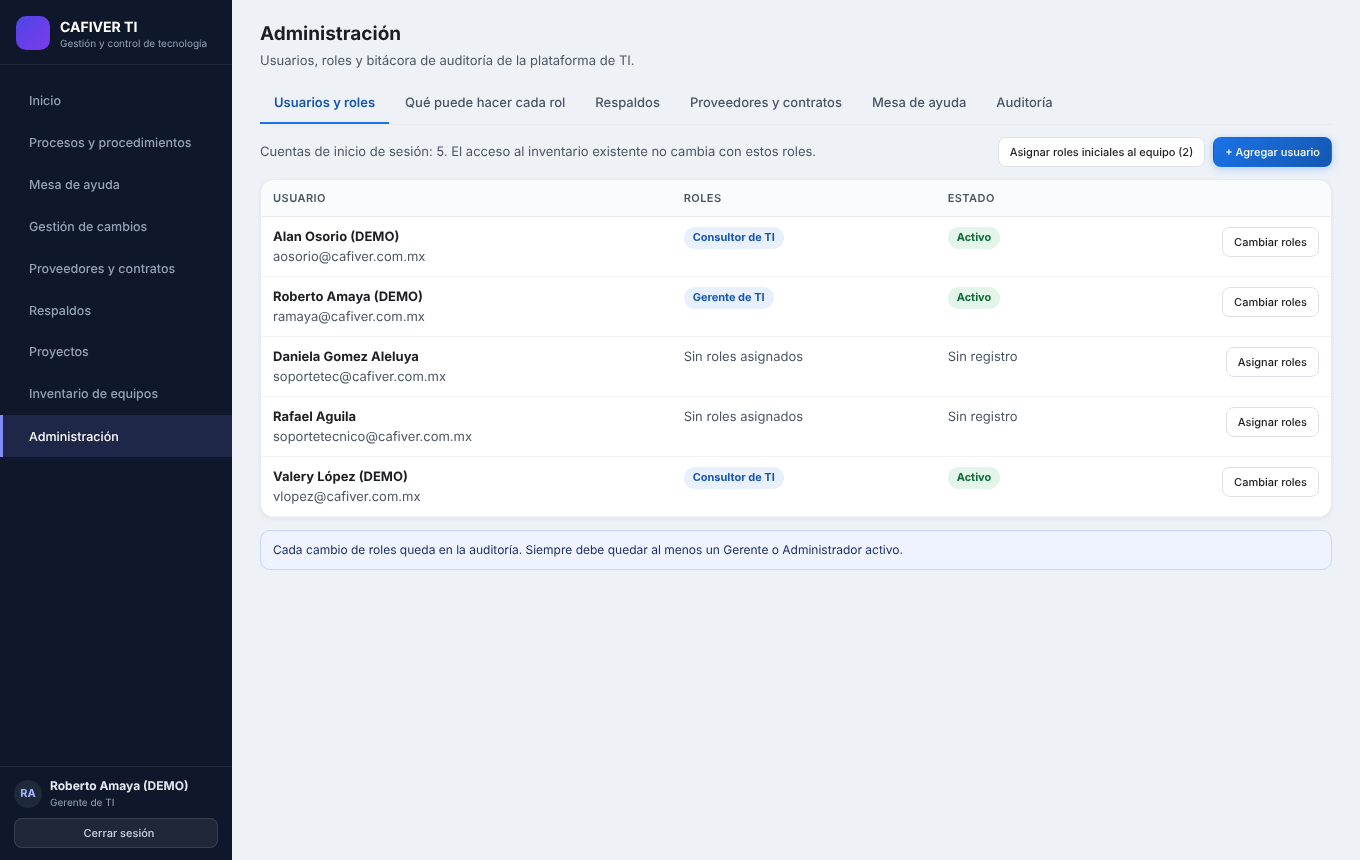
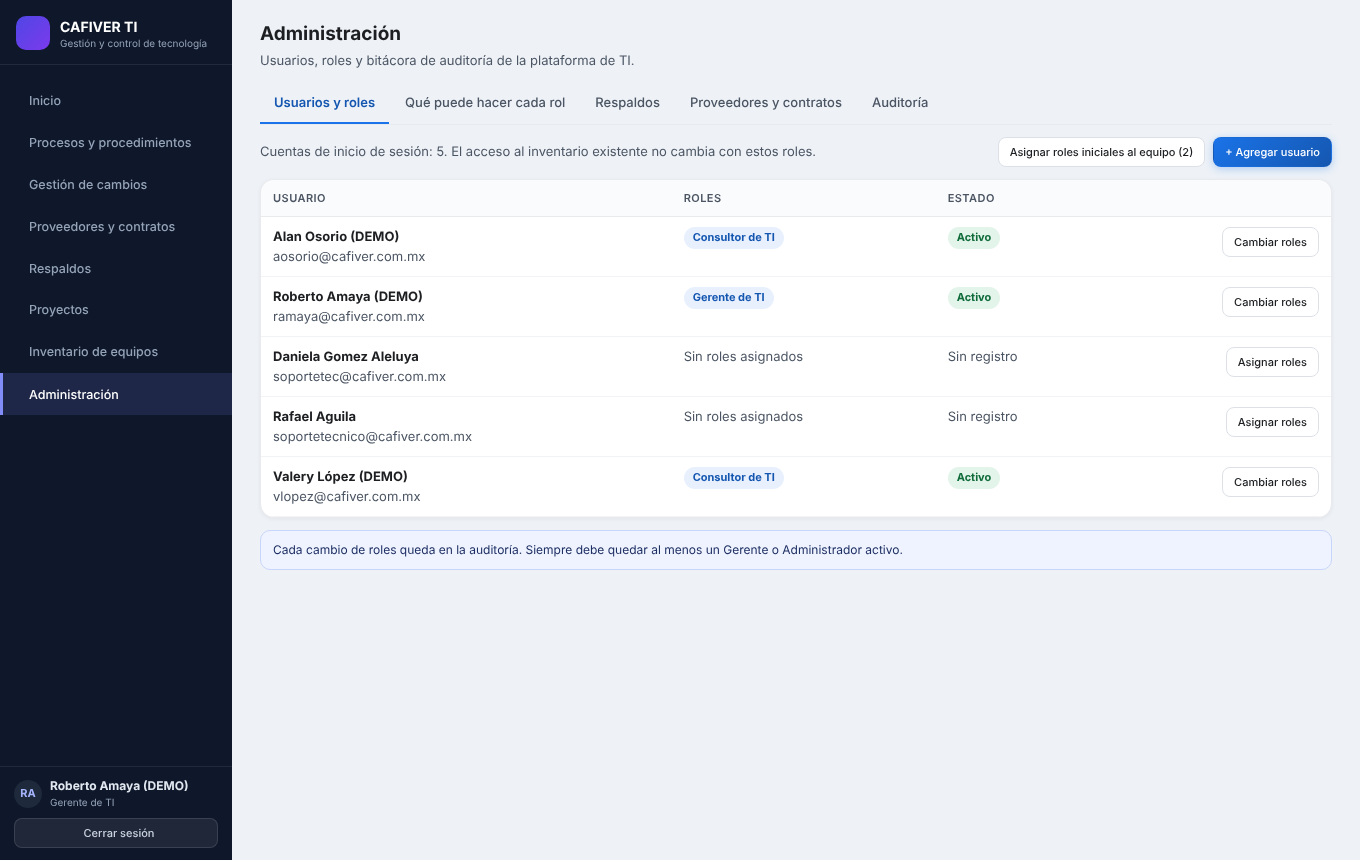
Recorrido sin la Mesa de ayuda (oculta); también se oculta su pestaña en Administración
Claude-Session: https://claude.ai/code/session_01NsRBkt7dMQX5HxVaatskRw

diff --git a/demo/recorrido/index.html b/demo/recorrido/index.html
@@ -1,1 +1,1 @@
-<!doctype html><html lang="es"><head><meta charset="utf-8"><meta name="viewport" content="width=device-width,initial-scale=1"><title>Recorrido CAFIVER TI</title><style>:root{--bg:#f6f7f9;--ink:#111827;--mut:#4b5563;--azul:#1a73e8;--bor:#e5e7eb}@media(prefers-color-scheme:dark){:root{--bg:#0f1115;--ink:#f3f4f6;--mut:#aab2bf;--azul:#7db3ff;--bor:#2a2f3a}}body{margin:0;background:var(--bg);color:var(--ink);font:15px/1.55 system-ui,Segoe UI,sans-serif}header,main{max-width:1180px;margin:0 auto;padding:20px 24px}h1{margin:0 0 6px;font-size:26px}h2{margin:36px 0 14px;font-size:20px;border-bottom:1px solid var(--bor);padding-bottom:8px}h3{margin:4px 0 6px;font-size:17px}p{margin:0 0 8px}.mut,.ruta{color:var(--mut)}.aviso{background:#fff7e0;color:#5c4400;border:1px solid #f0d98a;border-radius:10px;padding:12px 14px;margin-top:14px}figure{margin:0 0 28px;display:grid;grid-template-columns:300px 1fr;gap:20px;align-items:start;background:color-mix(in srgb,var(--bg) 70%,#fff);border:1px solid var(--bor);border-radius:14px;padding:16px}figure img{width:100%;border:1px solid var(--bor);border-radius:8px;display:block}.mod{font-size:12px;font-weight:700;text-transform:uppercase;letter-spacing:.05em;color:var(--azul)}a{color:var(--azul)}@media(max-width:800px){figure{grid-template-columns:1fr}}</style></head><body><header><h1>Recorrido de CAFIVER TI</h1><p class="mut">Capturas de cada módulo, como las vería cada rol.</p><div class="aviso"><b>Datos de ejemplo.</b> Todo lo que aparece está marcado DEMO y viene de un Firebase simulado en memoria; no se tocó tu Firebase real. Haz clic en una imagen para verla completa. Menú del Consultor: Inicio · Procesos y procedimientos · Mesa de ayuda · Gestión de cambios · Proveedores y contratos · Respaldos · Proyectos(se abre en otra pestaña) · Inventario de equipos(se abre en otra pestaña).</div></header><main><section><h2>Como Gerente de TI (ves todo)</h2><figure><figcaption><span class="mod">Inicio</span><h3>Tu resumen de todo</h3><p>Atención pendiente, y una sección por módulo con cifras reales. Cada tarjeta es clicable y abre el módulo ya filtrado. Lo que no se puede calcular dice &quot;No disponible&quot;.</p><p class="ruta">Cómo llegar: <b>Menú › Inicio</b></p></figcaption><a href="img/g01-inicio.png"><img src="img/g01-inicio.png" alt="Tu resumen de todo" loading="lazy"></a></figure><figure><figcaption><span class="mod">Procesos y procedimientos</span><h3>Lista con indicadores</h3><p>Procesos con estado, versión y próxima revisión. Las tarjetas filtran la tabla. Solo tú aprobás y publicás.</p><p class="ruta">Cómo llegar: <b>Menú › Procesos y procedimientos</b></p></figcaption><a href="img/g02-procesos.png"><img src="img/g02-procesos.png" alt="Lista con indicadores" loading="lazy"></a></figure><figure><figcaption><span class="mod">Procesos y procedimientos</span><h3>Detalle y aprobación</h3><p>Ficha, actividades, versiones e historial. Los botones de abajo son las acciones permitidas para tu rol en ese estado.</p><p class="ruta">Cómo llegar: <b>Procesos › clic en un proceso</b></p></figcaption><a href="img/g03-proceso-detalle.png"><img src="img/g03-proceso-detalle.png" alt="Detalle y aprobación" loading="lazy"></a></figure><figure><figcaption><span class="mod">Mesa de ayuda</span><h3>Todos los tickets</h3><p>Prioridad, estado, responsable y semáforo de SLA con texto. Tarjetas de gestión y exportar CSV.</p><p class="ruta">Cómo llegar: <b>Menú › Mesa de ayuda</b></p></figcaption><a href="img/g04-tickets.png"><img src="img/g04-tickets.png" alt="Todos los tickets" loading="lazy"></a></figure><figure><figcaption><span class="mod">Mesa de ayuda</span><h3>Detalle con SLA vencido</h3><p>Resumen, conversación (con notas internas) e historial. Asignar, cambiar prioridad o cancelar.</p><p class="ruta">Cómo llegar: <b>Mesa de ayuda › clic en un ticket</b></p></figcaption><a href="img/g05-ticket-detalle.png"><img src="img/g05-ticket-detalle.png" alt="Detalle con SLA vencido" loading="lazy"></a></figure><figure><figcaption><span class="mod">Gestión de cambios</span><h3>Cambios y riesgo</h3><p>Cambios con riesgo, tipo, estado y ventana. Aprobar es solo tuyo (y del Director).</p><p class="ruta">Cómo llegar: <b>Menú › Gestión de cambios</b></p></figcaption><a href="img/g06-cambios.png"><img src="img/g06-cambios.png" alt="Cambios y riesgo" loading="lazy"></a></figure><figure><figcaption><span class="mod">Gestión de cambios</span><h3>Detalle y choque de ventanas</h3><p>Avisa si la ventana se traslapa con otro cambio sobre el mismo sistema o equipo.</p><p class="ruta">Cómo llegar: <b>Gestión de cambios › clic en un cambio</b></p></figcaption><a href="img/g07-cambio-detalle.png"><img src="img/g07-cambio-detalle.png" alt="Detalle y choque de ventanas" loading="lazy"></a></figure><figure><figcaption><span class="mod">Proveedores y contratos</span><h3>Contratos y vigencia</h3><p>Por vencer y vencidos se calculan con la fecha de hoy. El monto anual se suma por moneda, sin convertir.</p><p class="ruta">Cómo llegar: <b>Menú › Proveedores y contratos</b></p></figcaption><a href="img/g08-contratos.png"><img src="img/g08-contratos.png" alt="Contratos y vigencia" loading="lazy"></a></figure><figure><figcaption><span class="mod">Proveedores y contratos</span><h3>Proveedores</h3><p>Contactos, categoría, responsable y sus contratos.</p><p class="ruta">Cómo llegar: <b>Proveedores y contratos › pestaña Proveedores</b></p></figcaption><a href="img/g09-proveedores.png"><img src="img/g09-proveedores.png" alt="Proveedores" loading="lazy"></a></figure><figure><figcaption><span class="mod">Respaldos</span><h3>Control de respaldos</h3><p>Un trabajo sin registros aparece &quot;Sin registros&quot;, nunca &quot;Al día&quot;. La plataforma no hace respaldos: registra los que hacen tus consultores.</p><p class="ruta">Cómo llegar: <b>Menú › Respaldos</b></p></figcaption><a href="img/g10-respaldos.png"><img src="img/g10-respaldos.png" alt="Control de respaldos" loading="lazy"></a></figure><figure><figcaption><span class="mod">Respaldos</span><h3>Detalle y registro</h3><p>Última ejecución, última prueba de restauración y botones para registrar nuevas.</p><p class="ruta">Cómo llegar: <b>Respaldos › clic en un trabajo</b></p></figcaption><a href="img/g11-respaldo-detalle.png"><img src="img/g11-respaldo-detalle.png" alt="Detalle y registro" loading="lazy"></a></figure><figure><figcaption><span class="mod">Administración</span><h3>Usuarios y roles</h3><p>Asigna Gerente, Consultor u otros roles. Siempre debe quedar al menos un Gerente o Administrador.</p><p class="ruta">Cómo llegar: <b>Menú › Administración › Usuarios y roles</b></p></figcaption><a href="img/g12-usuarios.png"><img src="img/g12-usuarios.png" alt="Usuarios y roles" loading="lazy"></a></figure><figure><figcaption><span class="mod">Administración</span><h3>Configuración de la mesa de ayuda</h3><p>Categorías, SLA por categoría y prioridad, horario de servicio. Nada viene predefinido: lo defines tú.</p><p class="ruta">Cómo llegar: <b>Administración › Mesa de ayuda</b></p></figcaption><a href="img/g13-config-tickets.png"><img src="img/g13-config-tickets.png" alt="Configuración de la mesa de ayuda" loading="lazy"></a></figure><figure><figcaption><span class="mod">Administración</span><h3>Auditoría</h3><p>Quién hizo qué y cuándo. Solo lectura: nadie puede editarla ni borrarla.</p><p class="ruta">Cómo llegar: <b>Administración › Auditoría</b></p></figcaption><a href="img/g14-auditoria.png"><img src="img/g14-auditoria.png" alt="Auditoría" loading="lazy"></a></figure></section><section><h2>Como Consultor de TI (ves lo tuyo)</h2><figure><figcaption><span class="mod">Inicio</span><h3>El resumen del consultor</h3><p>Solo lo suyo: su atención de procesos y accesos. Sin inventario, auditoría ni indicadores globales.</p><p class="ruta">Cómo llegar: <b>Menú › Inicio</b></p></figcaption><a href="img/c01-inicio.png"><img src="img/c01-inicio.png" alt="El resumen del consultor" loading="lazy"></a></figure><figure><figcaption><span class="mod">Mesa de ayuda</span><h3>Tus tickets</h3><p>Los que tiene asignados, los que creó y los nuevos sin responsable, que puede tomar.</p><p class="ruta">Cómo llegar: <b>Menú › Mesa de ayuda</b></p></figcaption><a href="img/c02-tickets.png"><img src="img/c02-tickets.png" alt="Tus tickets" loading="lazy"></a></figure><figure><figcaption><span class="mod">Gestión de cambios</span><h3>Tus cambios</h3><p>Los que solicitó o debe implementar. No puede aprobar.</p><p class="ruta">Cómo llegar: <b>Menú › Gestión de cambios</b></p></figcaption><a href="img/c03-cambios.png"><img src="img/c03-cambios.png" alt="Tus cambios" loading="lazy"></a></figure><figure><figcaption><span class="mod">Respaldos</span><h3>Tus trabajos de respaldo</h3><p>Registra ejecuciones y pruebas de restauración de los trabajos que tiene asignados.</p><p class="ruta">Cómo llegar: <b>Menú › Respaldos</b></p></figcaption><a href="img/c04-respaldos.png"><img src="img/c04-respaldos.png" alt="Tus trabajos de respaldo" loading="lazy"></a></figure></section><p class="mut">Generado con <code>node tests/recorrido.js</code>.</p></main></body></html>
+<!doctype html><html lang="es"><head><meta charset="utf-8"><meta name="viewport" content="width=device-width,initial-scale=1"><title>Recorrido CAFIVER TI</title><style>:root{--bg:#f6f7f9;--ink:#111827;--mut:#4b5563;--azul:#1a73e8;--bor:#e5e7eb}@media(prefers-color-scheme:dark){:root{--bg:#0f1115;--ink:#f3f4f6;--mut:#aab2bf;--azul:#7db3ff;--bor:#2a2f3a}}body{margin:0;background:var(--bg);color:var(--ink);font:15px/1.55 system-ui,Segoe UI,sans-serif}header,main{max-width:1180px;margin:0 auto;padding:20px 24px}h1{margin:0 0 6px;font-size:26px}h2{margin:36px 0 14px;font-size:20px;border-bottom:1px solid var(--bor);padding-bottom:8px}h3{margin:4px 0 6px;font-size:17px}p{margin:0 0 8px}.mut,.ruta{color:var(--mut)}.aviso{background:#fff7e0;color:#5c4400;border:1px solid #f0d98a;border-radius:10px;padding:12px 14px;margin-top:14px}figure{margin:0 0 28px;display:grid;grid-template-columns:300px 1fr;gap:20px;align-items:start;background:color-mix(in srgb,var(--bg) 70%,#fff);border:1px solid var(--bor);border-radius:14px;padding:16px}figure img{width:100%;border:1px solid var(--bor);border-radius:8px;display:block}.mod{font-size:12px;font-weight:700;text-transform:uppercase;letter-spacing:.05em;color:var(--azul)}a{color:var(--azul)}@media(max-width:800px){figure{grid-template-columns:1fr}}</style></head><body><header><h1>Recorrido de CAFIVER TI</h1><p class="mut">Capturas de cada módulo, como las vería cada rol.</p><div class="aviso"><b>Datos de ejemplo.</b> Todo lo que aparece está marcado DEMO y viene de un Firebase simulado en memoria; no se tocó tu Firebase real. Haz clic en una imagen para verla completa. Menú del Consultor: Inicio · Procesos y procedimientos · Gestión de cambios · Proveedores y contratos · Respaldos · Proyectos(se abre en otra pestaña) · Inventario de equipos(se abre en otra pestaña).</div></header><main><section><h2>Como Gerente de TI (ves todo)</h2><figure><figcaption><span class="mod">Inicio</span><h3>Tu resumen de todo</h3><p>Atención pendiente, y una sección por módulo con cifras reales. Cada tarjeta es clicable y abre el módulo ya filtrado. Lo que no se puede calcular dice &quot;No disponible&quot;.</p><p class="ruta">Cómo llegar: <b>Menú › Inicio</b></p></figcaption><a href="img/g01-inicio.png"><img src="img/g01-inicio.png" alt="Tu resumen de todo" loading="lazy"></a></figure><figure><figcaption><span class="mod">Procesos y procedimientos</span><h3>Lista con indicadores</h3><p>Procesos con estado, versión y próxima revisión. Las tarjetas filtran la tabla. Solo tú aprobás y publicás.</p><p class="ruta">Cómo llegar: <b>Menú › Procesos y procedimientos</b></p></figcaption><a href="img/g02-procesos.png"><img src="img/g02-procesos.png" alt="Lista con indicadores" loading="lazy"></a></figure><figure><figcaption><span class="mod">Procesos y procedimientos</span><h3>Detalle y aprobación</h3><p>Ficha, actividades, versiones e historial. Los botones de abajo son las acciones permitidas para tu rol en ese estado.</p><p class="ruta">Cómo llegar: <b>Procesos › clic en un proceso</b></p></figcaption><a href="img/g03-proceso-detalle.png"><img src="img/g03-proceso-detalle.png" alt="Detalle y aprobación" loading="lazy"></a></figure><figure><figcaption><span class="mod">Gestión de cambios</span><h3>Cambios y riesgo</h3><p>Cambios con riesgo, tipo, estado y ventana. Aprobar es solo tuyo (y del Director).</p><p class="ruta">Cómo llegar: <b>Menú › Gestión de cambios</b></p></figcaption><a href="img/g06-cambios.png"><img src="img/g06-cambios.png" alt="Cambios y riesgo" loading="lazy"></a></figure><figure><figcaption><span class="mod">Gestión de cambios</span><h3>Detalle y choque de ventanas</h3><p>Avisa si la ventana se traslapa con otro cambio sobre el mismo sistema o equipo.</p><p class="ruta">Cómo llegar: <b>Gestión de cambios › clic en un cambio</b></p></figcaption><a href="img/g07-cambio-detalle.png"><img src="img/g07-cambio-detalle.png" alt="Detalle y choque de ventanas" loading="lazy"></a></figure><figure><figcaption><span class="mod">Proveedores y contratos</span><h3>Contratos y vigencia</h3><p>Por vencer y vencidos se calculan con la fecha de hoy. El monto anual se suma por moneda, sin convertir.</p><p class="ruta">Cómo llegar: <b>Menú › Proveedores y contratos</b></p></figcaption><a href="img/g08-contratos.png"><img src="img/g08-contratos.png" alt="Contratos y vigencia" loading="lazy"></a></figure><figure><figcaption><span class="mod">Proveedores y contratos</span><h3>Proveedores</h3><p>Contactos, categoría, responsable y sus contratos.</p><p class="ruta">Cómo llegar: <b>Proveedores y contratos › pestaña Proveedores</b></p></figcaption><a href="img/g09-proveedores.png"><img src="img/g09-proveedores.png" alt="Proveedores" loading="lazy"></a></figure><figure><figcaption><span class="mod">Respaldos</span><h3>Control de respaldos</h3><p>Un trabajo sin registros aparece &quot;Sin registros&quot;, nunca &quot;Al día&quot;. La plataforma no hace respaldos: registra los que hacen tus consultores.</p><p class="ruta">Cómo llegar: <b>Menú › Respaldos</b></p></figcaption><a href="img/g10-respaldos.png"><img src="img/g10-respaldos.png" alt="Control de respaldos" loading="lazy"></a></figure><figure><figcaption><span class="mod">Respaldos</span><h3>Detalle y registro</h3><p>Última ejecución, última prueba de restauración y botones para registrar nuevas.</p><p class="ruta">Cómo llegar: <b>Respaldos › clic en un trabajo</b></p></figcaption><a href="img/g11-respaldo-detalle.png"><img src="img/g11-respaldo-detalle.png" alt="Detalle y registro" loading="lazy"></a></figure><figure><figcaption><span class="mod">Administración</span><h3>Usuarios y roles</h3><p>Asigna Gerente, Consultor u otros roles. Siempre debe quedar al menos un Gerente o Administrador.</p><p class="ruta">Cómo llegar: <b>Menú › Administración › Usuarios y roles</b></p></figcaption><a href="img/g12-usuarios.png"><img src="img/g12-usuarios.png" alt="Usuarios y roles" loading="lazy"></a></figure><figure><figcaption><span class="mod">Administración</span><h3>Auditoría</h3><p>Quién hizo qué y cuándo. Solo lectura: nadie puede editarla ni borrarla.</p><p class="ruta">Cómo llegar: <b>Administración › Auditoría</b></p></figcaption><a href="img/g14-auditoria.png"><img src="img/g14-auditoria.png" alt="Auditoría" loading="lazy"></a></figure></section><section><h2>Como Consultor de TI (ves lo tuyo)</h2><figure><figcaption><span class="mod">Inicio</span><h3>El resumen del consultor</h3><p>Solo lo suyo: su atención de procesos y accesos. Sin inventario, auditoría ni indicadores globales.</p><p class="ruta">Cómo llegar: <b>Menú › Inicio</b></p></figcaption><a href="img/c01-inicio.png"><img src="img/c01-inicio.png" alt="El resumen del consultor" loading="lazy"></a></figure><figure><figcaption><span class="mod">Gestión de cambios</span><h3>Tus cambios</h3><p>Los que solicitó o debe implementar. No puede aprobar.</p><p class="ruta">Cómo llegar: <b>Menú › Gestión de cambios</b></p></figcaption><a href="img/c03-cambios.png"><img src="img/c03-cambios.png" alt="Tus cambios" loading="lazy"></a></figure><figure><figcaption><span class="mod">Respaldos</span><h3>Tus trabajos de respaldo</h3><p>Registra ejecuciones y pruebas de restauración de los trabajos que tiene asignados.</p><p class="ruta">Cómo llegar: <b>Menú › Respaldos</b></p></figcaption><a href="img/c04-respaldos.png"><img src="img/c04-respaldos.png" alt="Tus trabajos de respaldo" loading="lazy"></a></figure></section><p class="mut">Generado con <code>node tests/recorrido.js</code>.</p></main></body></html>

diff --git a/tests/recorrido.js b/tests/recorrido.js
@@ -97,10 +97,6 @@ function paso(archivo, rol, modulo, titulo, texto, ruta) { PASOS.push({ archivo,
   paso('g02-procesos', 'Gerente', 'Procesos y procedimientos', 'Lista con indicadores', 'Procesos con estado, versión y próxima revisión. Las tarjetas filtran la tabla. Solo tú aprobás y publicás.', 'Menú › Procesos y procedimientos');
   await G.modal('.ti-row:has-text("PRO-002")', 'g03-proceso-detalle');
   paso('g03-proceso-detalle', 'Gerente', 'Procesos y procedimientos', 'Detalle y aprobación', 'Ficha, actividades, versiones e historial. Los botones de abajo son las acciones permitidas para tu rol en ese estado.', 'Procesos › clic en un proceso');
-  await G.ir('ti-tickets'); await G.foto('g04-tickets');
-  paso('g04-tickets', 'Gerente', 'Mesa de ayuda', 'Todos los tickets', 'Prioridad, estado, responsable y semáforo de SLA con texto. Tarjetas de gestión y exportar CSV.', 'Menú › Mesa de ayuda');
-  await G.modal('.ti-row:has-text("TCK-0001")', 'g05-ticket-detalle');
-  paso('g05-ticket-detalle', 'Gerente', 'Mesa de ayuda', 'Detalle con SLA vencido', 'Resumen, conversación (con notas internas) e historial. Asignar, cambiar prioridad o cancelar.', 'Mesa de ayuda › clic en un ticket');
   await G.ir('ti-cambios'); await G.foto('g06-cambios');
   paso('g06-cambios', 'Gerente', 'Gestión de cambios', 'Cambios y riesgo', 'Cambios con riesgo, tipo, estado y ventana. Aprobar es solo tuyo (y del Director).', 'Menú › Gestión de cambios');
   await G.modal('.ti-row:has-text("CHG-0001")', 'g07-cambio-detalle');
@@ -115,8 +111,6 @@ function paso(archivo, rol, modulo, titulo, texto, ruta) { PASOS.push({ archivo,
   paso('g11-respaldo-detalle', 'Gerente', 'Respaldos', 'Detalle y registro', 'Última ejecución, última prueba de restauración y botones para registrar nuevas.', 'Respaldos › clic en un trabajo');
   await G.ir('ti-admin'); await G.foto('g12-usuarios');
   paso('g12-usuarios', 'Gerente', 'Administración', 'Usuarios y roles', 'Asigna Gerente, Consultor u otros roles. Siempre debe quedar al menos un Gerente o Administrador.', 'Menú › Administración › Usuarios y roles');
-  await G.page.click('[data-t=tickets]'); await G.page.waitForTimeout(400); await G.foto('g13-config-tickets', true);
-  paso('g13-config-tickets', 'Gerente', 'Administración', 'Configuración de la mesa de ayuda', 'Categorías, SLA por categoría y prioridad, horario de servicio. Nada viene predefinido: lo defines tú.', 'Administración › Mesa de ayuda');
   await G.page.click('[data-t=auditoria]'); await G.page.waitForTimeout(500); await G.foto('g14-auditoria');
   paso('g14-auditoria', 'Gerente', 'Administración', 'Auditoría', 'Quién hizo qué y cuándo. Solo lectura: nadie puede editarla ni borrarla.', 'Administración › Auditoría');
   await G.page.close();
@@ -125,8 +119,6 @@ function paso(archivo, rol, modulo, titulo, texto, ruta) { PASOS.push({ archivo,
   const C = await sesion(CONS, 'Consultor');
   await C.ir('ti-inicio'); await C.page.waitForTimeout(400); await C.foto('c01-inicio', true);
   paso('c01-inicio', 'Consultor', 'Inicio', 'El resumen del consultor', 'Solo lo suyo: su atención de procesos y accesos. Sin inventario, auditoría ni indicadores globales.', 'Menú › Inicio');
-  await C.ir('ti-tickets'); await C.foto('c02-tickets');
-  paso('c02-tickets', 'Consultor', 'Mesa de ayuda', 'Tus tickets', 'Los que tiene asignados, los que creó y los nuevos sin responsable, que puede tomar.', 'Menú › Mesa de ayuda');
   await C.ir('ti-cambios'); await C.foto('c03-cambios');
   paso('c03-cambios', 'Consultor', 'Gestión de cambios', 'Tus cambios', 'Los que solicitó o debe implementar. No puede aprobar.', 'Menú › Gestión de cambios');
   await C.ir('ti-respaldos'); await C.foto('c04-respaldos');

diff --git a/ti/js/ti-admin.js b/ti/js/ti-admin.js
@@ -29,7 +29,7 @@
       el.innerHTML = h + '<div class="ti-note warn"><b>Configuración inicial.</b> Aún no hay roles en la plataforma. Tu correo (<b>' + esc(TI.user.email) + '</b>) está autorizado para crear su propio registro como <b>Gerente de TI</b>. Después podrás asignar roles a tu equipo.<div style="margin-top:10px"><button class="btn btn-blue" id="ad-boot">Crear mi registro de administrador</button></div></div>';
       el.querySelector('#ad-boot').onclick = inicializar; return;
     }
-    h += '<div class="ti-tabs" role="tablist">' + (admin ? '<button role="tab" data-t="usuarios" aria-selected="' + (A.tab === 'usuarios') + '">Usuarios y roles</button><button role="tab" data-t="roles" aria-selected="' + (A.tab === 'roles') + '">Qué puede hacer cada rol</button>' : '') + (admin && TI.puede('respaldos.gestionar') ? '<button role="tab" data-t="respaldos" aria-selected="' + (A.tab === 'respaldos') + '">Respaldos</button>' : '') + (admin && TI.puede('contratos.gestionar') ? '<button role="tab" data-t="proveedores" aria-selected="' + (A.tab === 'proveedores') + '">Proveedores y contratos</button>' : '') + (admin && TI.puede('tickets.configurar') ? '<button role="tab" data-t="tickets" aria-selected="' + (A.tab === 'tickets') + '">Mesa de ayuda</button>' : '') + (audi ? '<button role="tab" data-t="auditoria" aria-selected="' + (A.tab === 'auditoria') + '">Auditoría</button>' : '') + '</div>';
+    h += '<div class="ti-tabs" role="tablist">' + (admin ? '<button role="tab" data-t="usuarios" aria-selected="' + (A.tab === 'usuarios') + '">Usuarios y roles</button><button role="tab" data-t="roles" aria-selected="' + (A.tab === 'roles') + '">Qué puede hacer cada rol</button>' : '') + (admin && TI.puede('respaldos.gestionar') ? '<button role="tab" data-t="respaldos" aria-selected="' + (A.tab === 'respaldos') + '">Respaldos</button>' : '') + (admin && TI.puede('contratos.gestionar') ? '<button role="tab" data-t="proveedores" aria-selected="' + (A.tab === 'proveedores') + '">Proveedores y contratos</button>' : '') + (admin && TI.moduloVisible('ti-tickets') && TI.puede('tickets.configurar') ? '<button role="tab" data-t="tickets" aria-selected="' + (A.tab === 'tickets') + '">Mesa de ayuda</button>' : '') + (audi ? '<button role="tab" data-t="auditoria" aria-selected="' + (A.tab === 'auditoria') + '">Auditoría</button>' : '') + '</div>';
     if (A.tab === 'usuarios' && admin) h += vistaUsuarios();
     if (A.tab === 'roles' && admin) h += vistaRoles();
     if (A.tab === 'auditoria' && audi) h += vistaAuditoria();

diff --git a/docs/RECORRIDO.md b/docs/RECORRIDO.md
@@ -15,7 +15,6 @@ Todo es **DATOS DE EJEMPLO** (marcados DEMO) de un Firebase simulado en memoria;
 |---|---|---|
 | Inicio | Resumen con indicadores de todos los módulos | Todos (cada rol ve lo suyo) |
 | Procesos y procedimientos | Documentos con versiones y aprobación | Gerente, Consultor, Director, Administrador, Técnico (solo publicados) |
-| Mesa de ayuda | Tickets, prioridad y SLA | Todos (el Consultor, solo lo suyo) |
 | Gestión de cambios | Riesgo, reversa, aprobación y ventana | Gerente, Consultor, Administrador, Director |
 | Proveedores y contratos | Vigencias y montos | Gerente, Consultor, Administrador, Director |
 | Respaldos | Control de respaldos y pruebas de restauración | Gerente, Consultor, Administrador, Director |
@@ -24,3 +23,5 @@ Todo es **DATOS DE EJEMPLO** (marcados DEMO) de un Firebase simulado en memoria;
 | Administración | Usuarios, roles, auditoría y configuración | Gerente, Administrador |
 
 Cada tarjeta de Inicio abre el módulo ya filtrado. Detalle de cada módulo y sus fórmulas: `docs/PLATAFORMA.md`.
+
+> La **Mesa de ayuda** de esta plataforma está oculta: los tickets se atienden en TI Connect (ver `docs/PLATAFORMA.md`). Por eso el recorrido ya no la incluye.
